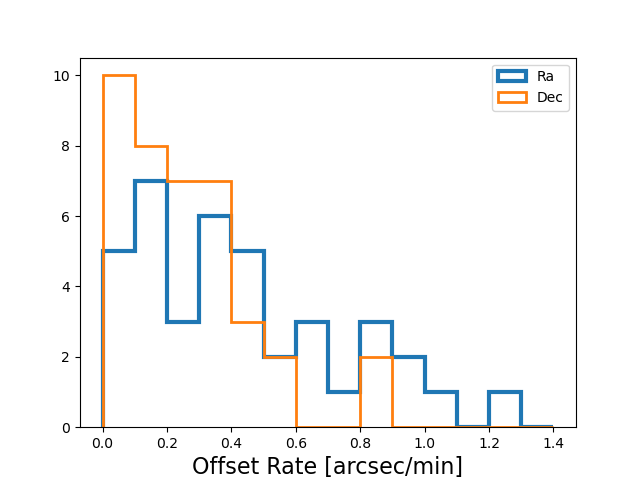
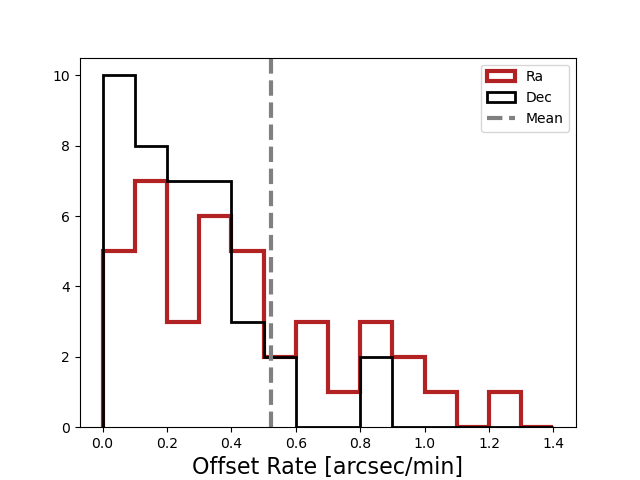
add requirement

Changed region(s): [[0.1562, 0.125, 0.5625, 0.875], [0.5625, 0.6562, 0.8438, 0.9062], [0.75, 0.125, 0.875, 0.2812]]

diff --git a/index.rst b/index.rst
@@ -12,8 +12,10 @@
    **This technote is a work-in-progress.**
 
 Checks the performance of the TMA under 3.5 degree random offsets tracking for 32 seconds (and back to original position) in the full range of azimuth and elevation (another az-el grid). 
-In particular, we analyse the repeatability of a target.
-Requirements that must be met are documented in LTS 103.
+In particular, we analyse the accuracy after moving to a target.
+Requirements that must be met are documented in `LTS 103 <https://docushare.lsst.org/docushare/dsweb/Get/LTS-103>`_ - Section 2.1.6.
+The test case associated with this analysis is `SITCOM-707 <https://jira.lsstcorp.org/browse/SITCOM-707>`_
+
 
 For the full analysis notebook can be found here: 
 https://github.com/estevesjh/ComScratchStuff/tree/summit2023/starTracker/slewSettleTests
@@ -23,13 +25,19 @@ Executive Summary
 **Goal**: Study the TMA (RA, DEC) repeatability precision for a single target. 
 
 **Method**: The precision is the standard deviation of the sky residuals, (RA,DEC) - Target(RA,DEC). 
-To be robust against outliers I use :math:`\sigma_{68}` as std metric.
+To highlight the actual TMA accuracy I removed the outliers exposures. 
 
 **Main findings:**
 
-- The overall on-sky precision is :math:`\sigma(RA)=0.26` arcsec and :math:`\sigma(DEC)=0.20` arcsec. 
+- The overall on-sky precision is :math:`\sigma(RA)=0.26` arcsec and :math:`\sigma(DEC)=0.20` arcsec using three exposures of 5 sec.
+- The pointing model introduces an offset linear with time. The mean offset rate is of 0.5 arcsec/min.  
+- Correcting for the pointing model we found a similar on-sky precision :math:`\sigma(RA)=0.30` arcsec and :math:`\sigma(DEC)=0.21` arcsec.
 - There is no significant trend of the sky precision with elevation or azimuth.
-- The pointing model can have some impact of the precision. 
+- The 0.2 arcsec requirement is not met in both analysis.
+
+**Future Analysis:**
+- Look at the outliers behaviour.
+
 
 3.5 Deg Offset Test Description
 ================================================
@@ -47,7 +55,7 @@ The snake exercise was repeated for a grid of Az/Alt.
 Data Description
 **************************************************
 
-The data analyzed here was taking in three different nights, 9th, 17th, and 22th March.
+The data analyzed here was taking in three different nights, 9th, 17th, and 22nd March.
 The sequences number of each night were 600-1115, 292-858, and 569-1229,respectively. 
 In total, we have 1592 exposures after discarding bad exposures.
 
